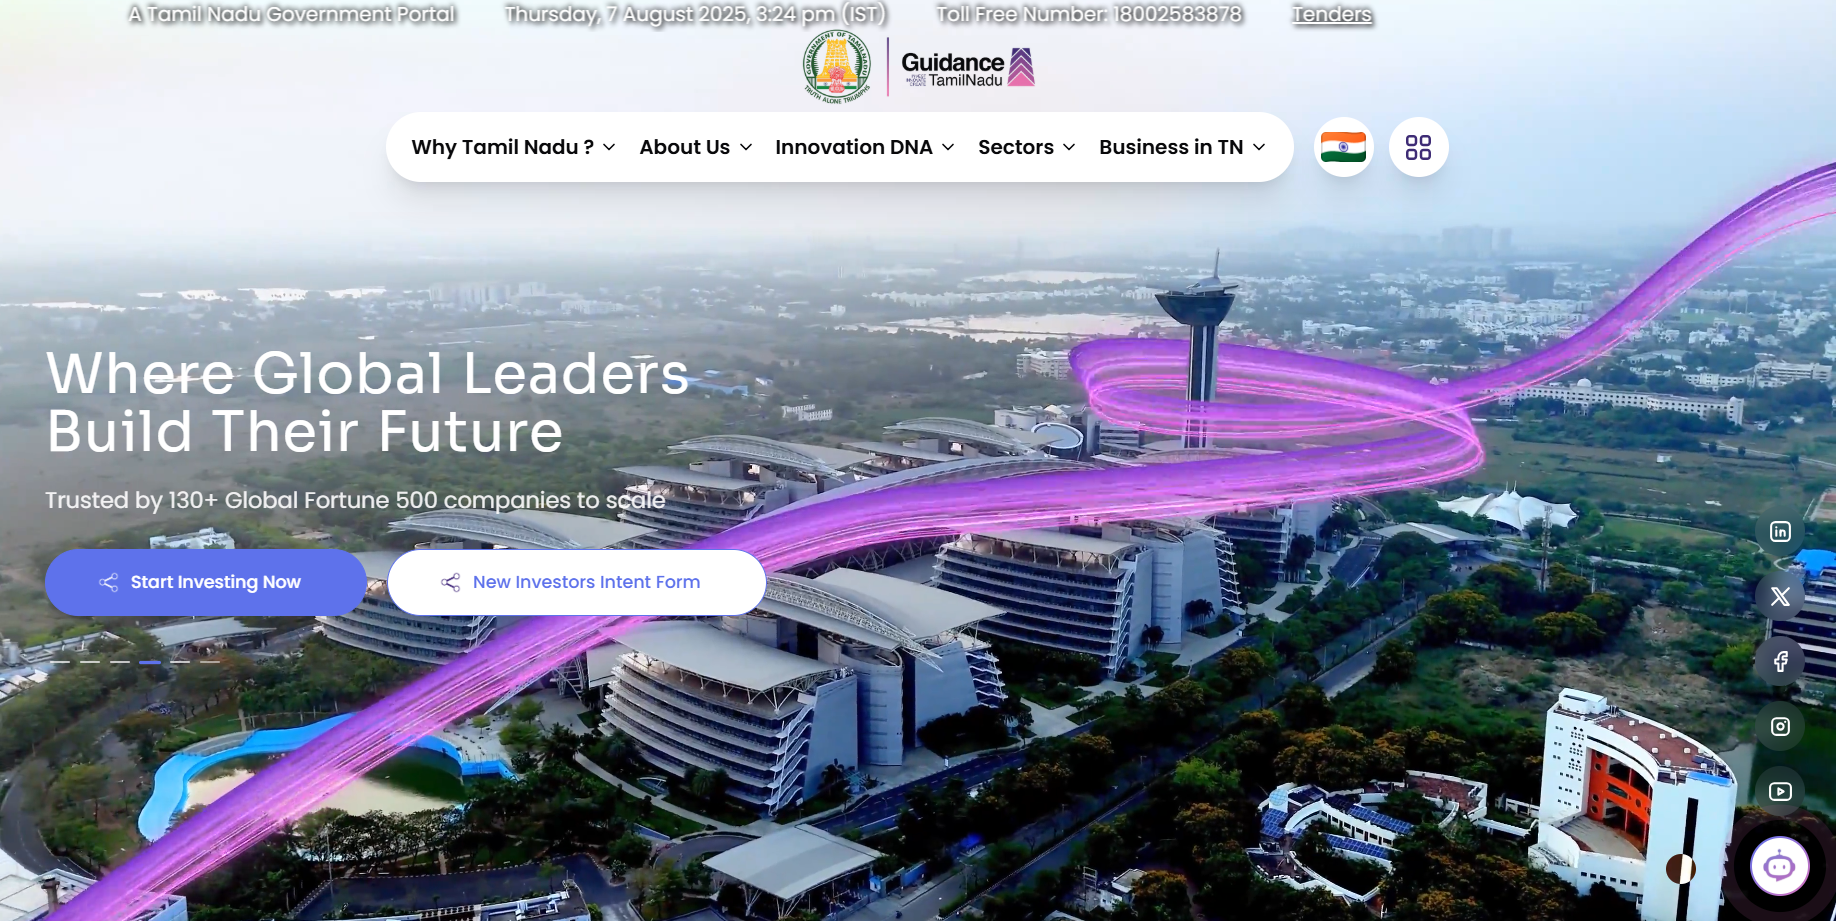
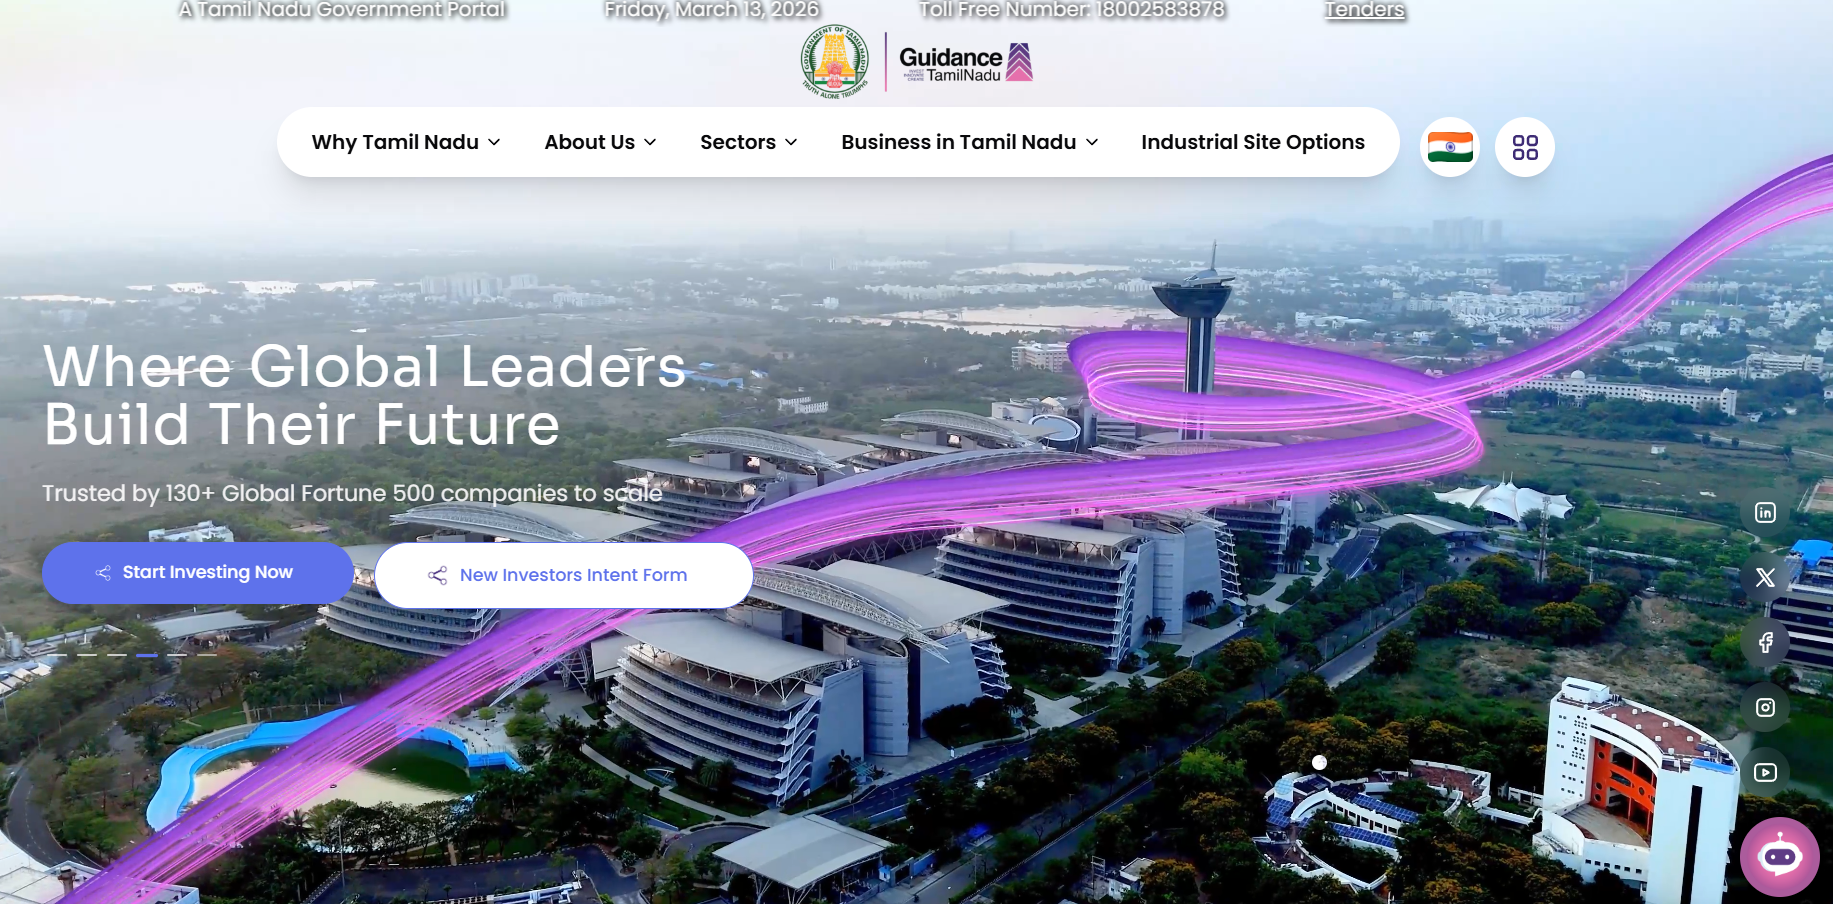
feat: update project details and links in Projects and PortfolioSection components

diff --git a/src/app/projects/page.tsx b/src/app/projects/page.tsx
@@ -33,21 +33,13 @@ const allProjects = [
       "Modern construction company website with 3D visualization and project showcases.",
     link: "https://aetherial-reality.vercel.app",
   },
-      {
-    title: "Arenvі",
-    category: "Architecture & Design",
-    year: "2026",
-    image: "/projects/arenvi.png",
-    link: "https://arenvi.vercel.app",
-  },
   {
     title: "Guidance Tamil Nadu",
     category: "Web Development",
     year: "2025",
     image: "/projects/guidance.png",
-    description:
-      "Educational guidance platform for Tamil Nadu students and parents.",
-    link: "https://guidancetamilnadu.timesmed.in",
+    description: "Official investment portal for Guidance Tamil Nadu.",
+    link: "https://investingintamilnadu.com",
   },
   {
     title: "Mubarak Collection",

diff --git a/src/components/PortfolioSection.tsx b/src/components/PortfolioSection.tsx
@@ -38,8 +38,8 @@ const projects = [
     category: "Web Development",
     year: "2025",
     image: "/projects/guidance.png",
-    link: "https://guidancetamilnadu.timesmed.in",
-  }
+    link: "https://investingintamilnadu.com",
+  },
 ];
 
 export function PortfolioSection() {
